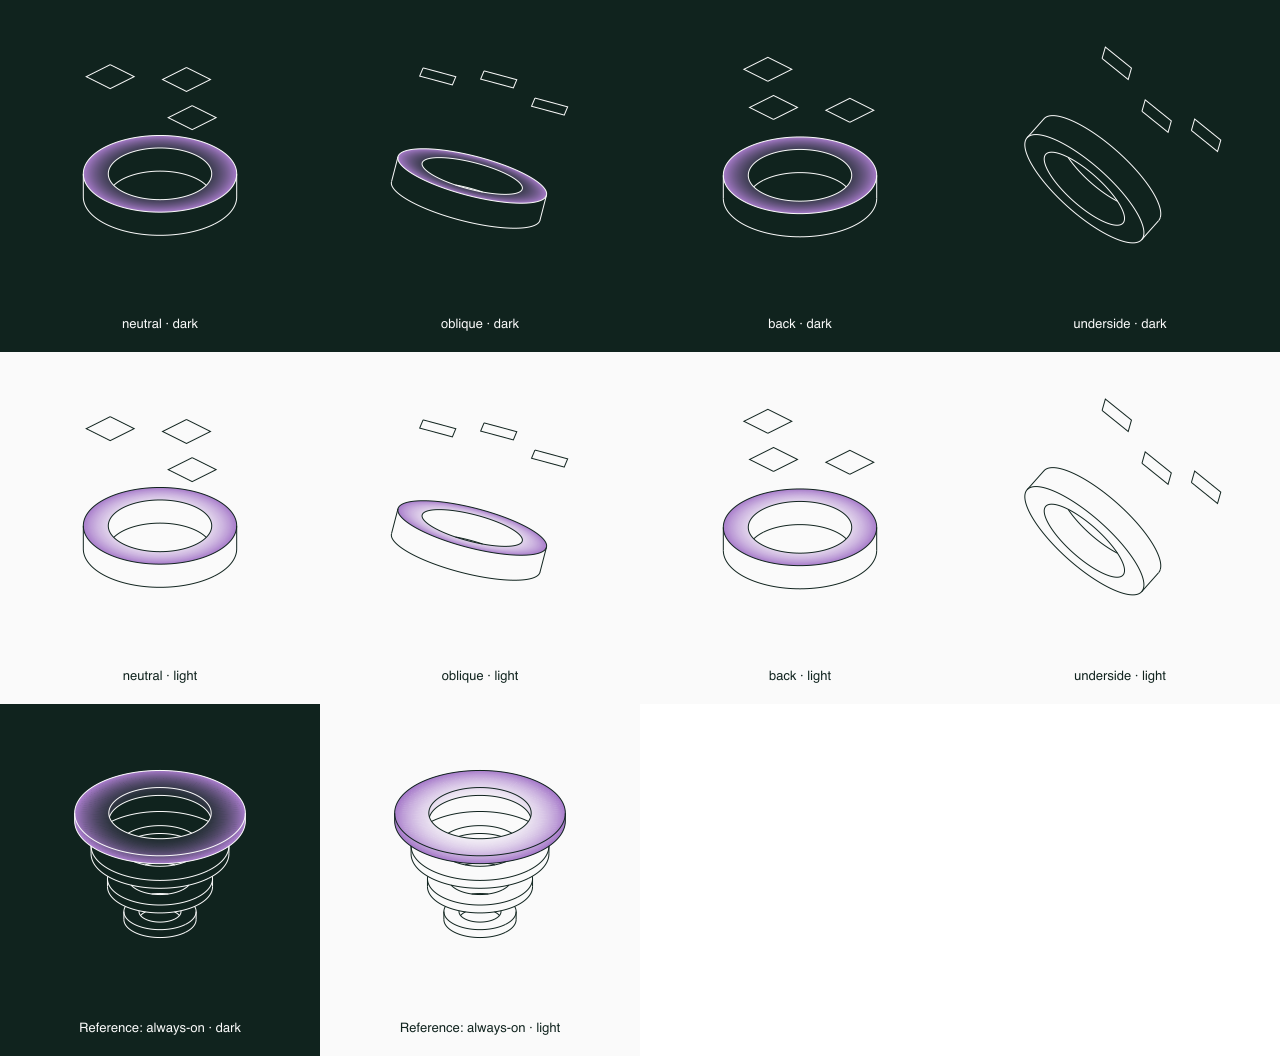
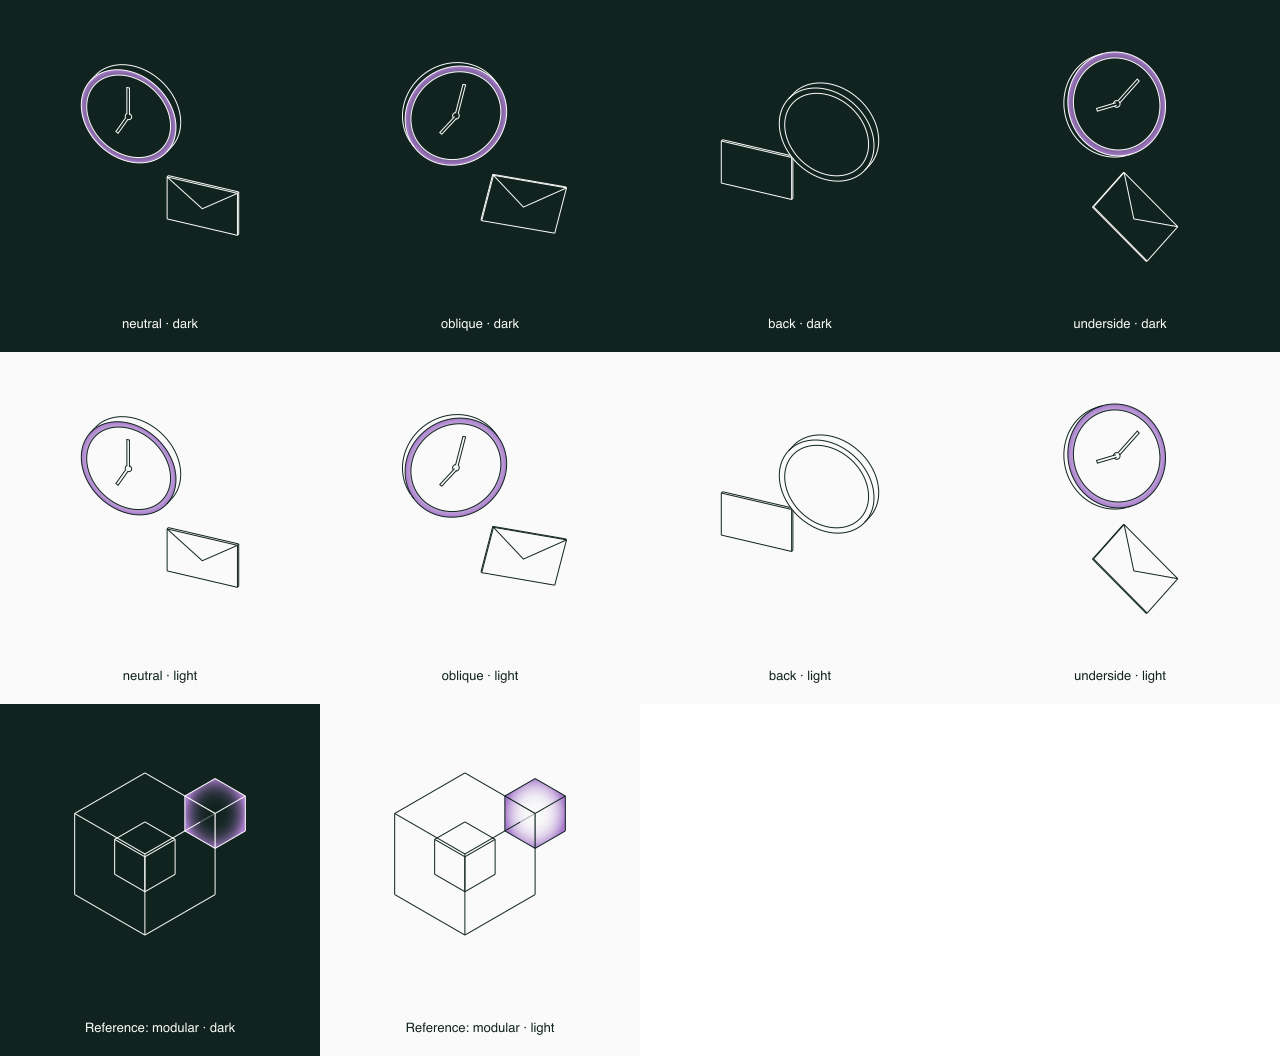
Show after-hours messages with a clock and envelope

diff --git a/docs/design/blog-illustrations-2026-11-17/who-answers-at-7pm/decision.md b/docs/design/blog-illustrations-2026-11-17/who-answers-at-7pm/decision.md
@@ -1,9 +1,9 @@
-# The after-hours messages no one sees
+# The after-hours messages no one sees — literal revision
 
-The article is about keeping every customer channel answered after closing; the illustration expresses several conversations arriving in one continuously open receiver through three equal sheets over a hollow cylinder with a single Iris rim.
+A clock showing 7:00 beside one sealed envelope makes the article's after-hours communication subject recognizable. This replaces the abstract receiver and floating sheets, following the user's request for clearer concepts and physically coherent 3D objects.
 
-Read the canonical article's full body and excerpt from the imported blog content. The three sheets represent multiple channels rather than enumerate the article's four named interfaces. The receiver stands for shared memory and the one morning inbox. No interface, clock, moon or written label is baked into the drawing.
+The clock is a 140-unit diameter, 15-unit deep cylindrical housing with an eight-unit annular rim and closed front/back disks. Two perpendicular-width hand strips share the clock's axis and are held by a domed spindle cap seated on its front face. The minute hand points upward and the hour hand points toward seven; there are no numerals. The envelope is a complete 104 × 65 × 4 cuboid whose front flap seam lies on its front face. Both objects receive the same rigid 20° yaw pose. Only the front clock rim is highlighted; the shared brand renderer provides the fade and hidden-line removal.
 
-Built with the requested `atomsai-illustrations` skill v2 and the current, hash-verified brand renderer. `always-on` supplies framing only; the scene is an original single receiver and three suspended sheets. The dimensions, open hole, wall depth, equal sheets and single annular highlight have concept-specific assertions in `recipe.mjs`.
+The initial neutral arrangement nearly touched the highlighted rim and envelope. The final recipe increases their physical separation by over 20 units beyond their planar bounding circles, keeping the highlighted clock and envelope separate in every angle where the rim is visible. This avoids relying on the renderer to clip a highlight against a sibling object. In the back view the objects overlap in projection but the one-sided clock-rim highlight is correctly absent.
 
-Visual review completed on `review/contact-sheet.png`: neutral, oblique, back and underside, on both Dark and Light, at 300 px viewport alongside the gallery reference. The opening remains genuinely open; the underside correctly loses its one-sided rim highlight; sheet sizes remain equal in world space. Paper outlines, generous clear space and the radial Iris fade match the reference. No duplicate outlines, tessellation, halo or hidden-line leakage were visible. The scene has four separated forms, with the open receiver dominant. All eight mechanical export checks passed. Web thumbnail placement/crop review is handled during integration.
+Inspected the final eight-view contact sheet: Dark and Light neutral, oblique, back and underside. Clock thickness, complete closed case, hand attachments, envelope thickness and flap placement are coherent. The neutral and oblique front silhouettes read clearly as clock plus message. Back-facing hands and flap seams disappear; the clock's rear case remains visible. No highlight shows through the other object. All mechanical checks and recipe-specific assertions passed. Final background, Cream/Paper palette and thinner stroke are applied by the parent export step; the recipe retains the approved renderer's source color convention.
